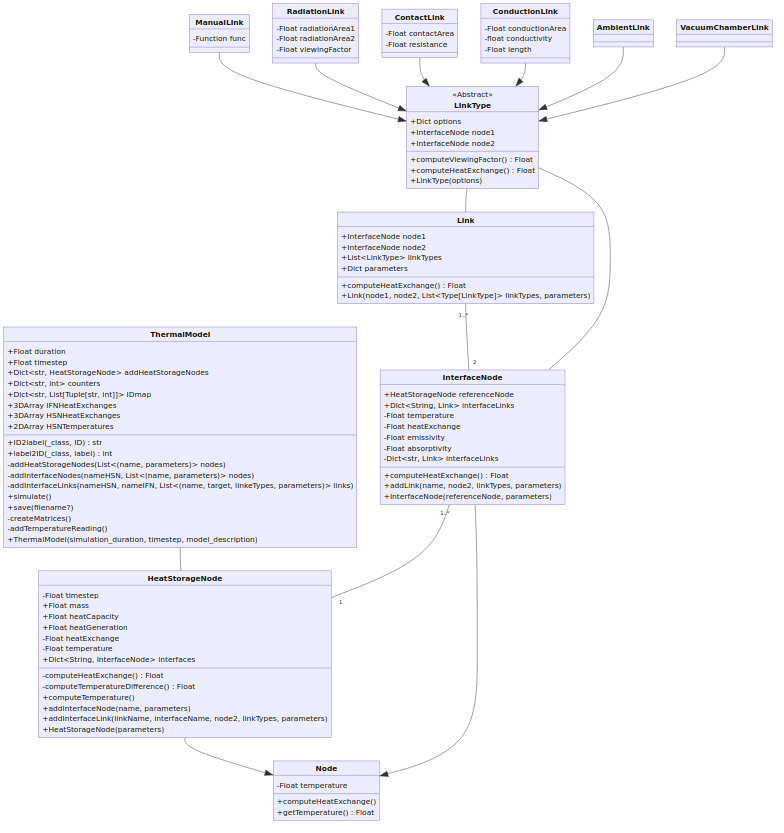
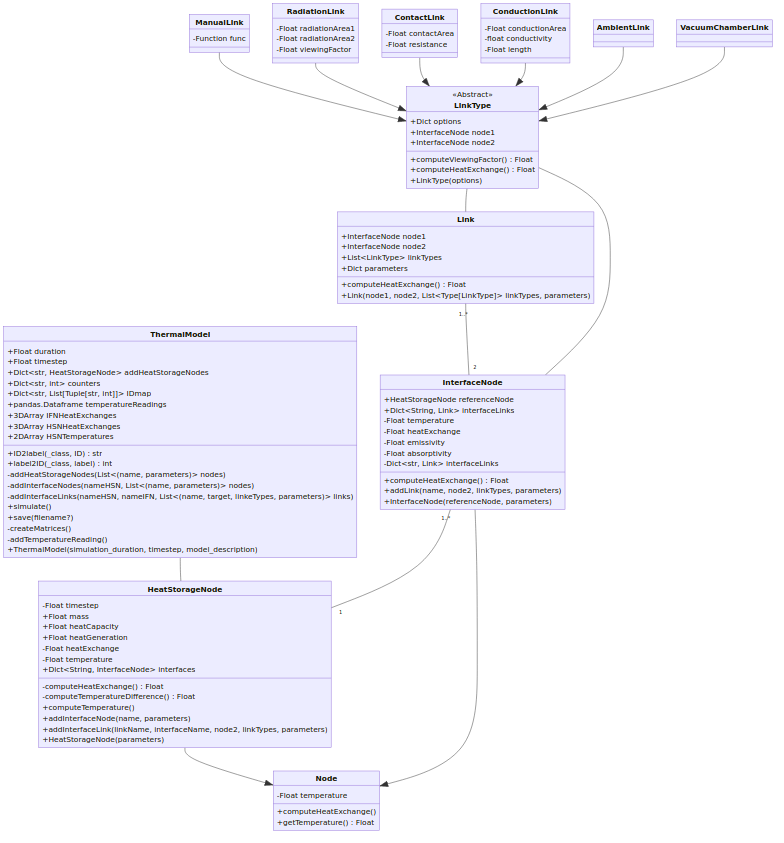
add ability to save results

diff --git a/thermalmodel/thermalmodel.py b/thermalmodel/thermalmodel.py
@@ -2,6 +2,7 @@
 
 from typing import Dict, List, Tuple, Type
 import numpy as np
+import pandas as pd
 import itertools
 
 from .nodes import HeatStorageNode, LinkType
@@ -134,6 +135,10 @@ class ThermalModel():
                 self.IDmap['links'] += [ (nameLink, next(linkID)) for (nameLink, _, _, _) in linksIFN ]
         del linkID
 
+        self.temperatureReadings: pd.DataFrame = pd.DataFrame(columns=[
+            'time', *[ hsnName for hsnName, _ in self.IDmap['HSN'] ],
+        ])
+
         # TODO: populate arrays using known data
         # TODO: when adding data for each timestep in 'simulate()', gradually increase the dimension (the one saying 1 below)
         # TODO: suggestion: consider not using matrices. They may not be required if only temperature readings are of interest.
@@ -208,27 +213,33 @@ class ThermalModel():
         # print('label2ID() example:', self.label2ID('HSN', 'Battery'))
 
         t = 0
+        temperatureReading: Dict[str, List[float]] = { c: [] for c in self.temperatureReadings.columns }
         while t < self.duration:
             t += self.timestep
+            temperatureReading['time'].append(t)
             print(f"=== Time: {t} ===")
             for heatStorageNode in self.heatStorageNodes.items():
                 name, HSN = heatStorageNode
                 temperature = HSN.computeTemperature()
+                temperatureReading[name].append(temperature)
                 # TODO: create new matrix with new values?
                 # TODO: append new matrix to existing matrix (see in '__init__()')?
-                # TODO: if only temperature is recorded, create arrays storing temperature at each timestep
                 # TODO: suggestion: abstract above steps into new function to declutter this main loop (i.e. 'self._createMatrices()' or 'self._addTemperatureReading(...)')
                 print(f'{name} temperature: {temperature}')
+        self._addTemperatureReading(temperatureReading)
+        print(self.temperatureReadings)
 
-    def save(self, filename='thermalmodel'):
-        # TODO: extract temperature readings (and other data of interest)
-        # TODO: write data to a file (CSV) to avoid re-running the script to get the numbers
-        raise NotImplementedError()
+    def save(self, filename='thermalmodel.csv'):
+        print(f'Saving data to file {filename}')
+        self.temperatureReadings.to_csv(filename, index=False)
 
     def _createMatrices(self):
         # TODO: this might serve as a helper function to create matrices
         # TODO: this might serve as a helper function to add matrices and increase the dimension after each timestep
         raise NotImplementedError()
 
-    def _addTemperatureReading(self, temperature: float):
-        raise NotImplementedError()
+    def _addTemperatureReading(self, reading: Dict[str, List[float]]):
+        self.temperatureReadings = pd.concat(
+            [ self.temperatureReadings, pd.DataFrame(reading) ],
+            ignore_index=True,
+        )

diff --git a/example-simulation.py b/example-simulation.py
@@ -122,4 +122,4 @@ thermalmodel = tm.ThermalModel(
 # ~~~~~~~~~~~~~~~~~~~~~~~~~~~~~~~~~~~~~~~~~~~~~~~~~~~~~~~~~~~~~~~~~~~~~~~~~~~~~~
 
 thermalmodel.simulate()
-# thermalmodel.save()
+thermalmodel.save()

diff --git a/README.md b/README.md
@@ -18,5 +18,5 @@ You will find many comments saying `TODO` throughout the code. Please look for t
 <!-- - [ ] Make it such that the HSN first only computes the heat exchange for links that are defined. In a second pass, "compute" the heat exchange for links that were not defined (and generated by the code (i.e. they should be identifiable because they only have the `ManualLink` link type; a more robust approach would be to add an attributed indicating whether the links was generated because it was missing or not)). Suggestion: split the `computeHeatExchange()` functions into 2 subfunctions for this task. This is necessary, because you cannot get the heat exchange value of the inverse link if it was not computed yet. Alternatively, run the compute function twice: the first time it might have "missing values" for the inverse links; the second time it will fill up what is missing (but recalculate everything). -->
 - [ ] Implement [`AmbientLink`](https://github.com/niveK77pur/ISM-Thermal-Model/blob/bfc62ef3e8038fbb5293dbb1494acd61f7a60e79/thermalmodel/links.py#L90)'s `computeHeatExchange()` function
 - [ ] Implement [`VacuumChamberLink`](https://github.com/niveK77pur/ISM-Thermal-Model/blob/bfc62ef3e8038fbb5293dbb1494acd61f7a60e79/thermalmodel/links.py#L100)'s `computeHeatExchange()` function
-- [ ] Are temperatures the only relevant thing at the end of the simulation? With the current implementation, there is most likely no need to incorporate complicated matrices (i.e. since the links are now defined both ways (if the above points have been tackled)). If temperatures are all, then store those into arrays for later use, no need for matrices. See [here](https://github.com/niveK77pur/ISM-Thermal-Model/blob/bfc62ef3e8038fbb5293dbb1494acd61f7a60e79/thermalmodel/thermalmodel.py#L120) and [here](https://github.com/niveK77pur/ISM-Thermal-Model/blob/bfc62ef3e8038fbb5293dbb1494acd61f7a60e79/thermalmodel/thermalmodel.py#L199).
-- [ ] Implement [`save()`](https://github.com/niveK77pur/ISM-Thermal-Model/blob/bfc62ef3e8038fbb5293dbb1494acd61f7a60e79/thermalmodel/thermalmodel.py#L203) function. Also see [here](https://github.com/niveK77pur/ISM-Thermal-Model/blob/bfc62ef3e8038fbb5293dbb1494acd61f7a60e79/example-simulation.py#L125).
+- [x] Are temperatures the only relevant thing at the end of the simulation? With the current implementation, there is most likely no need to incorporate complicated matrices (i.e. since the links are now defined both ways (if the above points have been tackled)). If temperatures are all, then store those into arrays for later use, no need for matrices. See [here](https://github.com/niveK77pur/ISM-Thermal-Model/blob/bfc62ef3e8038fbb5293dbb1494acd61f7a60e79/thermalmodel/thermalmodel.py#L120) and [here](https://github.com/niveK77pur/ISM-Thermal-Model/blob/bfc62ef3e8038fbb5293dbb1494acd61f7a60e79/thermalmodel/thermalmodel.py#L199).
+- [x] Implement [`save()`](https://github.com/niveK77pur/ISM-Thermal-Model/blob/bfc62ef3e8038fbb5293dbb1494acd61f7a60e79/thermalmodel/thermalmodel.py#L203) function. Also see [here](https://github.com/niveK77pur/ISM-Thermal-Model/blob/bfc62ef3e8038fbb5293dbb1494acd61f7a60e79/example-simulation.py#L125).
